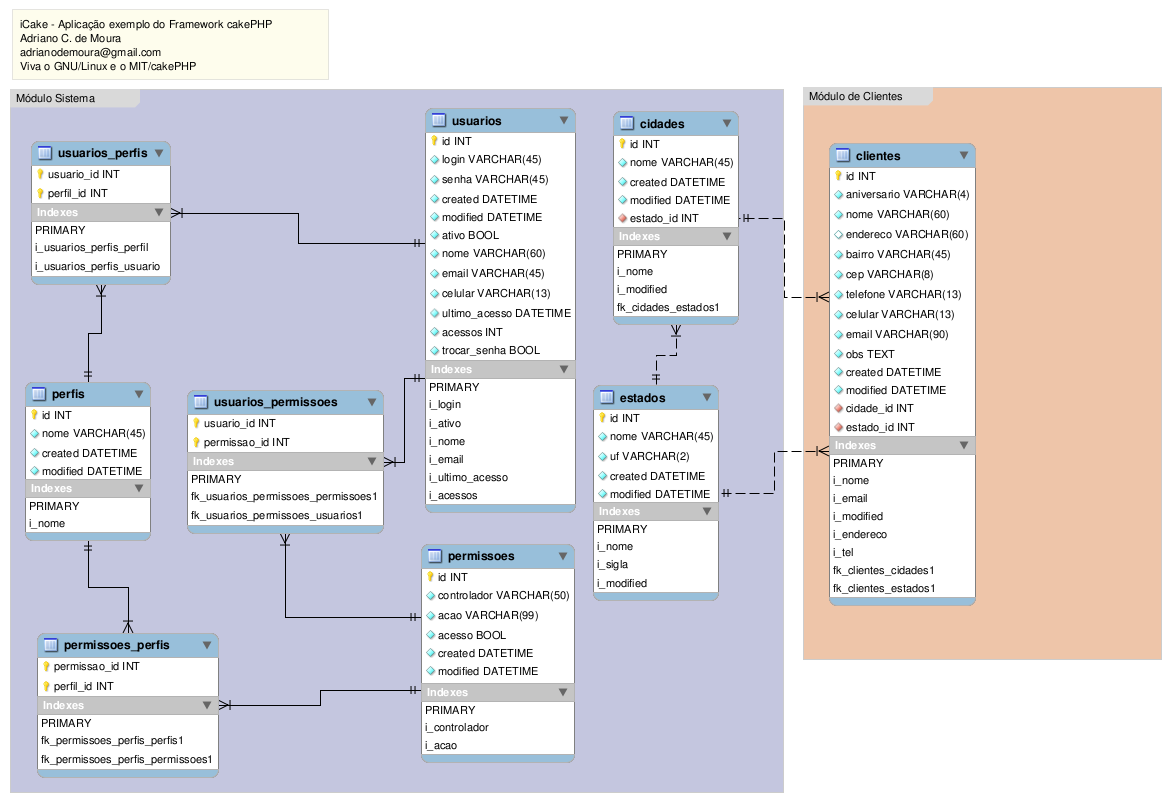
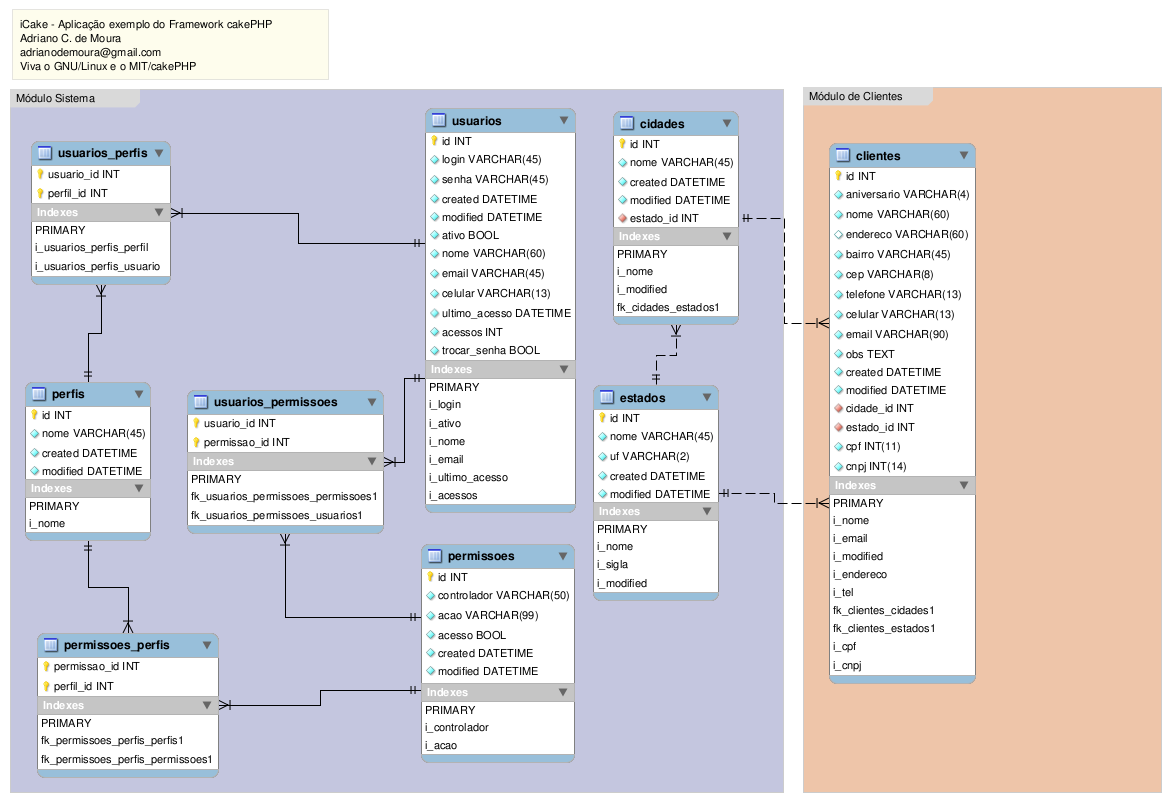
Inclusão dos campos cpf e cnpj no cadastro de clientes

Changed region(s): [[0.6763, 0.5293, 1.0, 0.9963]]

diff --git a/webroot/css/clientes.css b/webroot/css/clientes.css
@@ -16,6 +16,32 @@
 #conteudo #ClienteTelefone,
 #conteudo #ClienteCelular
 {
-	width: 120px;
+	width: 106px;
 	text-align: center;
+}
+
+#ClienteBairro
+{
+	width: 250px;
+}
+
+#lbClientecnpj,
+#lbClientecelular,
+#lbClientecep
+{
+	display: block;
+	float: left;
+	text-align: right;
+	width: 149px;
+	margin: 0px 2px 0px 0px;
+}
+
+#lbClientecelular
+{
+	width: 237px;
+}
+
+#lbClientecnpj
+{
+	width: 235px;
 }

diff --git a/controllers/clientes_controller.php b/controllers/clientes_controller.php
@@ -63,12 +63,12 @@ class ClientesController extends AppController {
 			{
 				if (isset($this->data['Cliente'][$_campo])) $this->data['Cliente'][$_campo]	= ereg_replace('[./-]','',$this->data['Cliente'][$_campo]);
 			}
-			$campos = array('telefone','celular');
+			$campos = array('telefone','celular','cpf','cnpj');
 			foreach($campos as $_campo)
 			{
 				if (isset($this->data['Cliente'][$_campo]))
 				{
-					$this->data['Cliente'][$_campo]	= ereg_replace('- ','',$this->data['Cliente'][$_campo]);
+					$this->data['Cliente'][$_campo]	= ereg_replace('[- ./]','',$this->data['Cliente'][$_campo]);
 				}
 			}
 		}
@@ -85,7 +85,7 @@ class ClientesController extends AppController {
 		// campos padrão
 		$campos				= array();
 		$onReadView 		= array();
-		$edicaoCampos		= array('Cliente.nome','Cliente.aniversario','#','Cliente.endereco','#','Cliente.bairro','Cliente.cep','#','Cliente.estado_id','Cliente.cidade_id','@','Cliente.telefone','Cliente.celular','@','Cliente.email','@','Cliente.obs','@','Cliente.modified','Cliente.created');
+		$edicaoCampos		= array('Cliente.nome','Cliente.aniversario','#','Cliente.endereco','#','Cliente.bairro','Cliente.cep','#','Cliente.estado_id','Cliente.cidade_id','@','Cliente.telefone','Cliente.celular','#','Cliente.cpf','Cliente.cnpj','#','Cliente.email','@','Cliente.obs','@','Cliente.modified','Cliente.created');
 		$botoesEdicao		= array();
 		$listaCampos 		= array('Cliente.nome','Cliente.bairro','Cidade.nome','Cliente.telefone','Cliente.celular','Cliente.modified','Cliente.created');
 		$listaFerramentas	= array();
@@ -139,11 +139,22 @@ class ClientesController extends AppController {
 		$campos['Cliente']['telefone']['td']['align']				= 'center';
 
 		$campos['Cliente']['celular']['input']['label']['text']		= 'Celular';
+		$campos['Cliente']['celular']['input']['label']['class']	= '';
 		$campos['Cliente']['celular']['th']['width']				= '120px';
 		$campos['Cliente']['celular']['mascara']					= '99 9999-9999';
 		$campos['Cliente']['celular']['td']['align']				= 'center';
 
+		$campos['Cliente']['cpf']['input']['label']['text']			= 'Cpf';
+		$campos['Cliente']['cpf']['mascara']						= '999.999.999-99';
+		$campos['Cliente']['cpf']['input']['size']					= 11;
+
+		$campos['Cliente']['cnpj']['input']['label']['text']		= 'Cnpj';
+		$campos['Cliente']['cnpj']['input']['label']['class']		= '';
+		$campos['Cliente']['cnpj']['mascara']						= '99.999.999/9999-99';
+		$campos['Cliente']['cnpj']['input']['size']					= 16;
+
 		$campos['Cliente']['cep']['input']['label']['text']			= 'Cep';
+		$campos['Cliente']['cep']['input']['label']['class']		= '';
 		$campos['Cliente']['cep']['input']['style']					= 'width: 90px; text-align: center;';
 		$campos['Cliente']['cep']['mascara']						= '99.999-999';
 
@@ -169,7 +180,7 @@ class ClientesController extends AppController {
 
 		if ($this->action=='imprimir')
 		{
-			$edicaoCampos = array('Cliente.nome','Cliente.aniversario','#','Cliente.endereco','#','Cliente.bairro','#','Cliente.cep','#','Cidade.nome','Estado.uf','@','Cliente.telefone','Cliente.celular','@','Cliente.email','@','Cliente.obs','@','Cliente.modified','Cliente.created');
+			$edicaoCampos = array('Cliente.nome','Cliente.aniversario','#','Cliente.endereco','#','Cliente.bairro','#','Cliente.cep','#','Cidade.nome','Estado.uf','@','Cliente.telefone','Cliente.celular','#','Cliente.cpf','Cliente.cnpj','#','Cliente.email','@','Cliente.obs','@','Cliente.modified','Cliente.created');
 		}
 
 		if (in_array($this->action,array('editar','novo')))

diff --git a/plugins/jcake/views/helpers/visao.php b/plugins/jcake/views/helpers/visao.php
@@ -326,6 +326,7 @@ class VisaoHelper extends Helper {
 				if (empty($input['label']['class'])) 	unset($input['label']['class']);
 				if (empty($input['div']['class'])) 		unset($input['div']['class']);
 				if (empty($input['div']['id'])) 		unset($input['div']['id']);
+				if (!isset($input['label']['id'])) 		$input['label']['id'] 		= 'lb'.$arrCmp[0].$arrCmp[1];
 
 				// escrevendo o input
 				if (!$leitura && !isset($input['disabled']))
@@ -437,7 +438,12 @@ class VisaoHelper extends Helper {
 				if ($valor=='00:00:00') $mascarado = '';
 				break;
 			case 'cpf':
+			case '999.999.999-99':
 				$mascarado = substr($valor,0,3).'.'.substr($valor,3,3).'.'.substr($valor,6,3).'-'.substr($valor,9,2);
+				break;
+			case 'cnpj':
+			case '99.999.999/9999-99':
+				$mascarado = substr($valor,0,2).'.'.substr($valor,2,3).'.'.substr($valor,5,3).'/'.substr($valor,8,4).'-'.substr($valor,12,2);
 				break;
 			case 'aniversario':
 			case '99/99':
